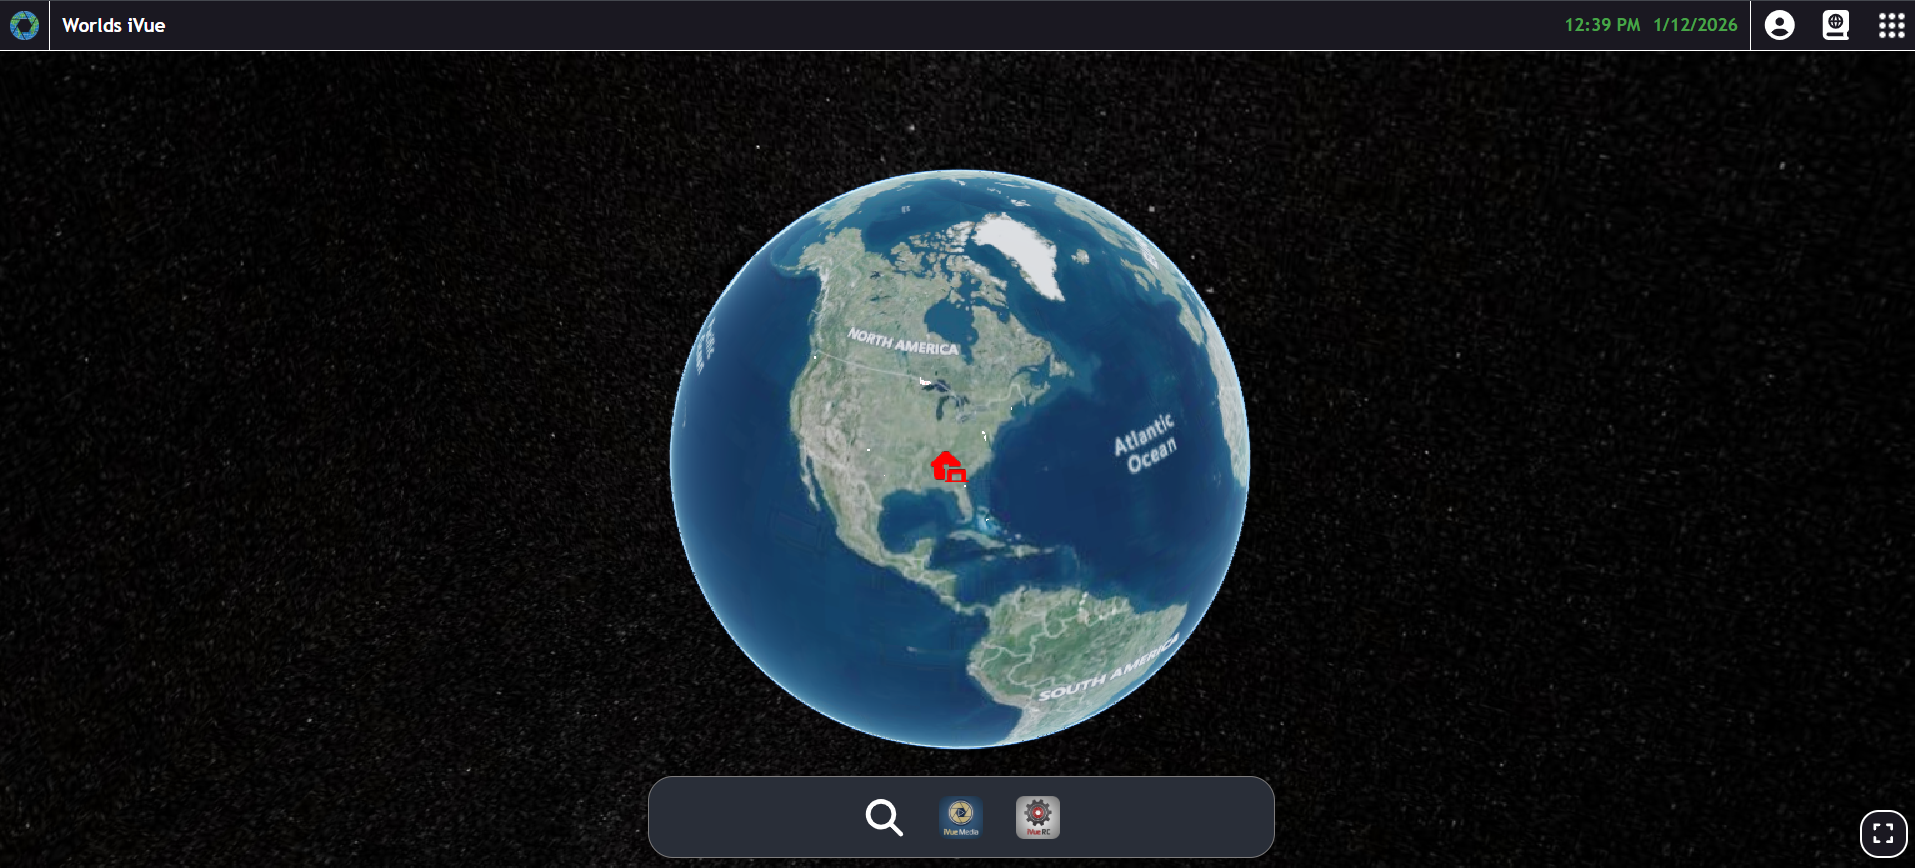
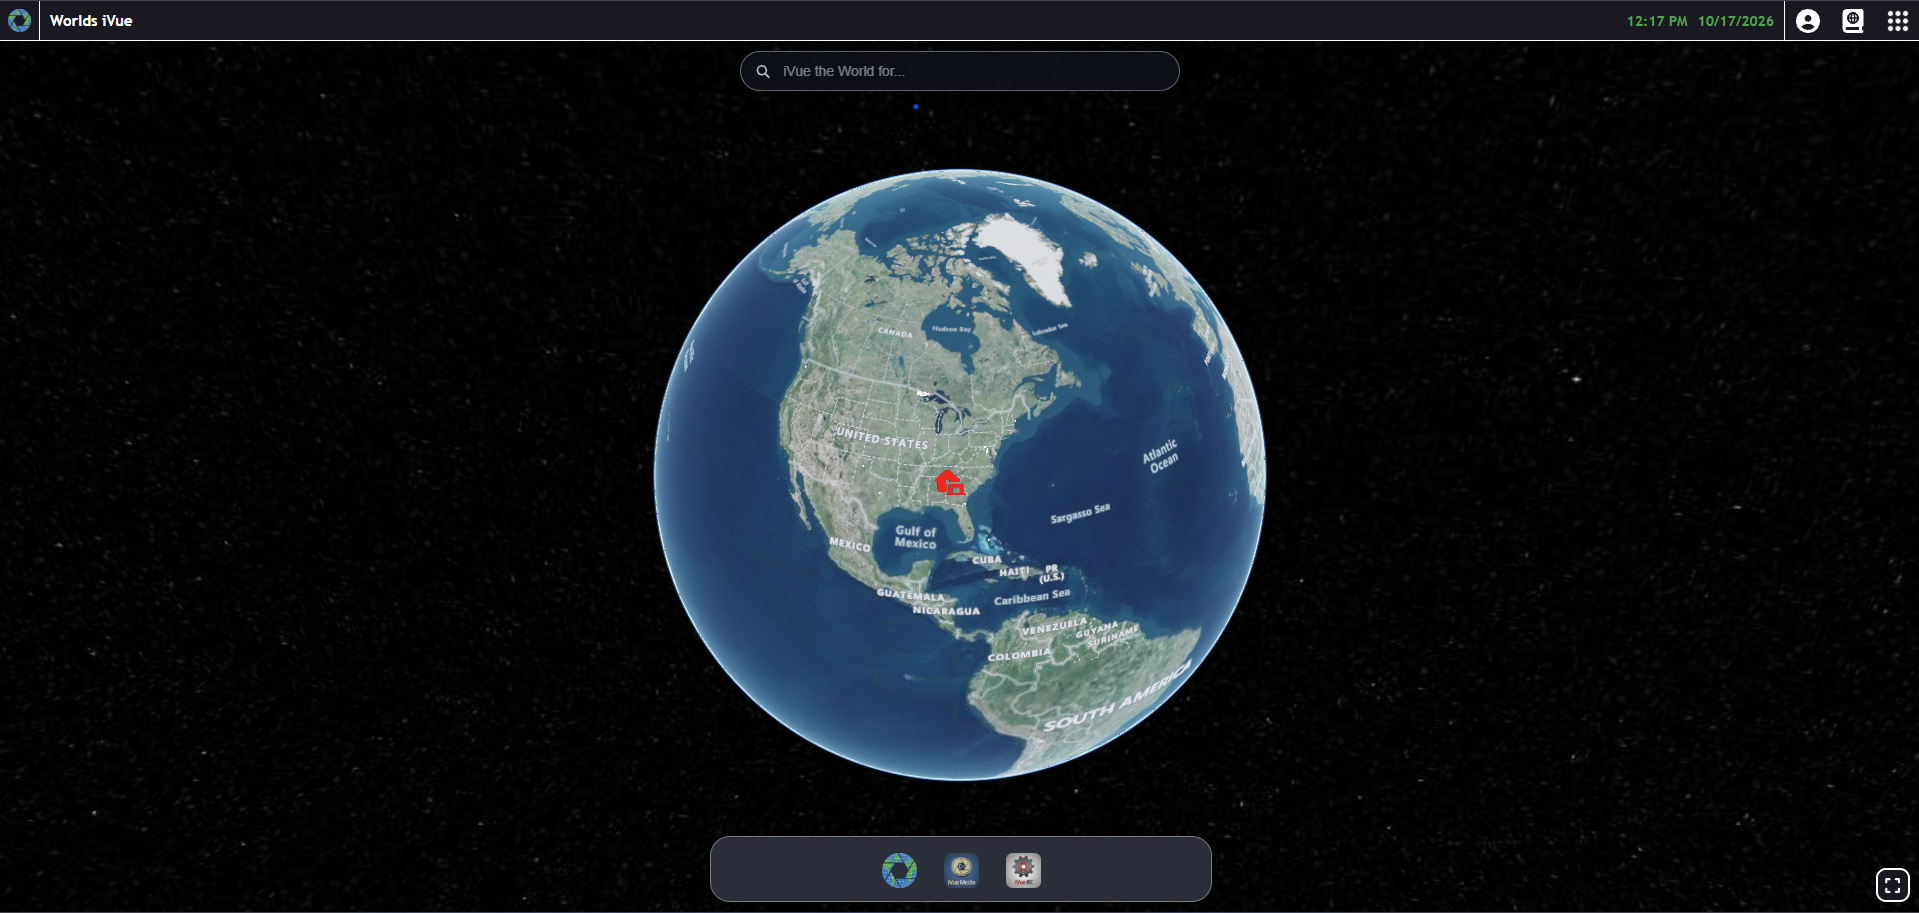
Styling Edits.
- I updated the "Worlds iVue App" image.
- The homepage skills section header should not be to large for one line on mobile devices.
- I edited other parts of the code for formatting and clarity.

Changed region(s): [[0.0, 0.0, 1.0, 1.0], [0.5546, 0.5599, 0.5854, 0.591]]

diff --git a/app/components/home/SkillsSection.vue b/app/components/home/SkillsSection.vue
@@ -42,7 +42,6 @@ function setSkillsTransitions(isVisible = false) {
     if(isVisible && getMohitInnerWidth() > 450) {
         document.getElementsByClassName('skills-main-header').item(0)?.classList.add("animate__animated", "animate__lightSpeedInLeft");
         document.getElementsByClassName('skills-main-desc').item(0)?.classList.add("animate__animated", "animate__lightSpeedInRight");
-        return;
     } else if(!isVisible) {
         document.getElementsByClassName('skills-main-header').item(0)?.classList.remove("animate__animated", "animate__lightSpeedInLeft");
         document.getElementsByClassName('skills-main-desc').item(0)?.classList.remove("animate__animated", "animate__lightSpeedInRight");
@@ -152,6 +151,9 @@ function setSkillsTransitions(isVisible = false) {
         width: 330px;
         position: relative;
         left: calc(50% - 165px);
+    }
+    .skills-main-header a {
+        font-size: 70px;
     }
     .skills-main-desc {
         width: 330px;

diff --git a/app/stores/ScriptsStore.js b/app/stores/ScriptsStore.js
@@ -525,7 +525,7 @@ export const useScriptsStore = defineStore("scripts-store", () => {
     /** Based on the current status of the "wrapCode" boolean, this function sets the styles for wrapping the code text. */
     function setWrapCodeStyles() {
         const preElement = document.getElementById(SCRIPT_HTML_ID);
-        if(preElement != null) {
+        if(Boolean(preElement)) {
             preElement.style.textWrap = (wrapCode.value ? "wrap" : "nowrap");
             preElement.style.overflowWrap = (wrapCode.value ? "break-word" : "normal");
         }

diff --git a/app/styles/scriptpage.scss b/app/styles/scriptpage.scss
@@ -1,5 +1,13 @@
 @use "@/styles/_dynamicrules.scss" as *;
 
+#script-page {
+    background: transparent;
+}
+.code-file-inHTML {
+    scrollbar-width: auto !important;
+    scrollbar-color: white transparent;
+}
+
 .mohit-main-script {
     padding: 10px 20px;
     margin: 30px auto 20px auto;
@@ -18,11 +26,6 @@
     max-width: none;
     min-height: 0px;
     margin: 10px;
-}
-
-.code-file-inHTML {
-    scrollbar-width: auto !important;
-    scrollbar-color: white transparent;
 }
 
 #mohit-scriptPage-code {

diff --git a/app/components/hosted-files/ScriptLineOptions.vue b/app/components/hosted-files/ScriptLineOptions.vue
@@ -67,7 +67,7 @@ onMountedAdvanced(() => {
     lineOptionsAbortController = new AbortController();
     const signal = lineOptionsAbortController.signal;
 
-    if('onpointerdown' in window){
+    if('onpointerdown' in window) {
         window.addEventListener("pointerdown", (event) => { checkComponentStayVisible(event); }, { signal });
     } else {
         window.addEventListener("mousedown", (event) => { checkComponentStayVisible(event); }, { signal });

diff --git a/app/templates/ScriptViewerTemplate.vue b/app/templates/ScriptViewerTemplate.vue
@@ -3,7 +3,7 @@
 </style>
 
 <template>
-<main id="script-page" class="personal-web-body transparent">
+<main id="script-page" class="personal-web-body">
     <div class="mohit-main-script" id="mohit-main-script">
         <ScriptTopBar />
         <div ref="script-html" class="code-file-inHTML" v-html="html"></div>
